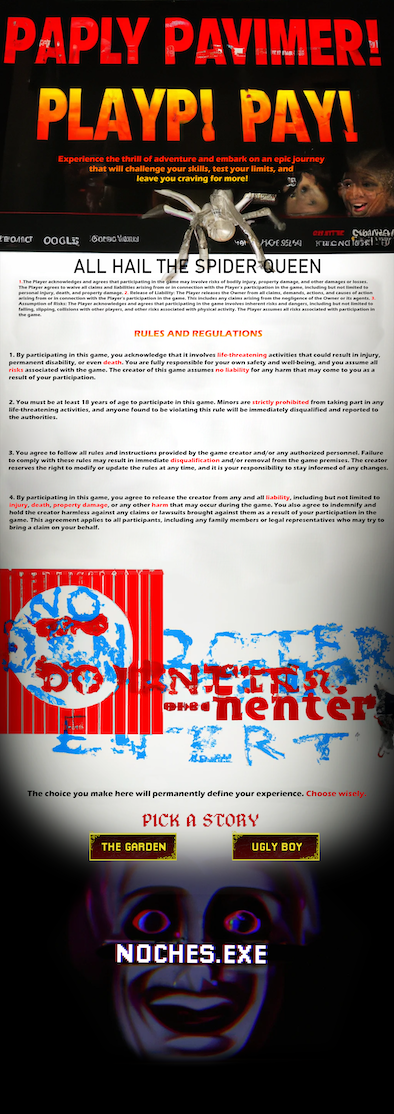
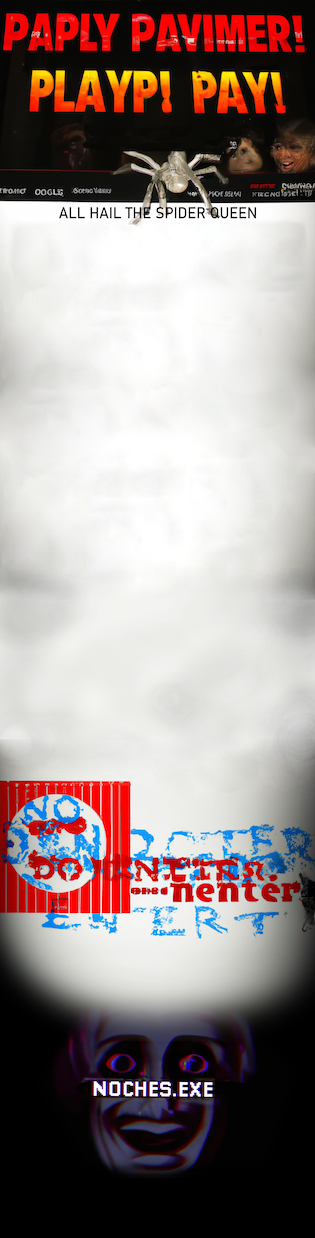
replacing assets and dding text

diff --git a/src/PickAStory/index.tsx b/src/PickAStory/index.tsx
@@ -1,4 +1,4 @@
-import { Button, Image, Box } from "@chakra-ui/react";
+import { Button, Image, Box, Text } from "@chakra-ui/react";
 import { ScreenWrapper } from "components/ScreenWrapper/ScreenWrapper";
 import { useRouter } from "next/router";
 
@@ -8,24 +8,106 @@ export const PickAStory = () => {
     <ScreenWrapper screenBg={""}>
       <>
         <Image src="/pick-a-story-bg.png" />
+        <Box
+          position="absolute"
+          top="230px"
+          fontFamily="roboto"
+          lineHeight="1"
+          letterSpacing="tight"
+        >
+          <Text px="4" fontSize="3xs">
+            1.The Player acknowledges and agrees that participating in the game
+            may involve risks of bodily injury, property damage, and other
+            damages or losses. The Player agrees to waive all claims and
+            liabilities arising from or in connection with the Player’s
+            participation in the game, including but not limited to personal
+            injury, death, and property damage. 2. Release of Liability: The
+            Player releases the Owner from all claims, demands, actions, and
+            causes of action arising from or in connection with the Player’s
+            participation in the game. This includes any claims arising from the
+            negligence of the Owner or its agents. 3. Assumption of Risks: The
+            Player acknowledges and agrees that participating in the game
+            involves inherent risks and dangers, including but not limited to
+            falling, slipping, collisions with other players, and other risks
+            associated with physical activity. The Player assumes all risks
+            associated with participation in the game.
+          </Text>
+
+          <Text fontSize="2xs" px="2" py="2">
+            1.By participating in this game, you acknowledge that it involves
+            life-threatening activities that could result in injury, permanent
+            disability, or even death. You are fully responsible for your own
+            safety and well-being, and you assume all risks associated with the
+            game. The creator of this game assumes no liability for any harm
+            that may come to you as a result of your participation.
+          </Text>
+          <Text fontSize="2xs" px="2" py="2">
+            2.You must be at least 18 years of age to participate in this game.
+            Minors are strictly prohibited from taking part in any
+            life-threatening activities, and anyone found to be violating this
+            rule will be immediately disqualified and reported to the
+            authorities.
+          </Text>
+          <Text fontSize="2xs" px="2" py="2">
+            3.You agree to follow all rules and instructions provided by the
+            game creator and/or any authorized personnel. Failure to comply with
+            these rules may result in immediate disqualification and/or removal
+            from the game premises. The creator reserves the right to modify or
+            update the rules at any time, and it is your responsibility to stay
+            informed of any changes.
+          </Text>
+          <Text fontSize="2xs" px="2" py="2">
+            4.By participating in this game, you agree to release the creator
+            from any and all liability, including but not limited to injury,
+            death, property damage, or any other harm that may occur during the
+            game. You also agree to indemnify and hold the creator harmless
+            against any claims or lawsuits brought against them as a result of
+            your participation in the game. This agreement applies to all
+            participants, including any family members or legal representatives
+            who may try to bring a claim on your behalf.
+          </Text>
+        </Box>
+
         <Button
           px="0"
           background="unset"
           _hover={{ background: "unset" }}
           onClick={() => router.push("/the-garden")}
           position="absolute"
-          top="635px"
+          top="935px"
           left="60px"
         >
           <Box
             zIndex={4}
             width="100px"
             height="50px"
-            backgroundImage="unset"
+            backgroundImage="/the-garden-button-no-glow.png"
             backgroundPosition={"center"}
             backgroundSize="cover"
             _hover={{
               backgroundImage: "/garden-button-glow.png",
+            }}
+          />
+        </Button>
+
+        <Button
+          px="0"
+          background="unset"
+          _hover={{ background: "unset" }}
+          onClick={() => router.push("/the-garden")}
+          position="absolute"
+          top="935px"
+          left="160px"
+        >
+          <Box
+            zIndex={4}
+            width="100px"
+            height="50px"
+            backgroundImage="/ugly-boy-button-no-glow.png"
+            backgroundPosition={"center"}
+            backgroundSize="cover"
+            _hover={{
+              backgroundImage: "/ugly-boy-button-glow.png",
             }}
           />
         </Button>

diff --git a/src/TheGarden/index.tsx b/src/TheGarden/index.tsx
@@ -1,4 +1,4 @@
-import { Image, Box, keyframes } from "@chakra-ui/react";
+import { Image, Box, keyframes, Text, Heading } from "@chakra-ui/react";
 import { ScreenWrapper } from "components/ScreenWrapper/ScreenWrapper";
 import { useRouter } from "next/router";
 
@@ -17,6 +17,36 @@ export const TheGarden = () => {
     <ScreenWrapper screenBg={""}>
       <Box position="relative">
         <Image src="/the-garden-page.png" />
+        <Box
+          position="absolute"
+          top="16"
+          fontFamily="roboto"
+          color="white"
+          px="2"
+        >
+          <Heading fontSize="sm" backgroundColor="red.500" marginRight={28}>
+            Look at this beautiful garden
+          </Heading>
+          <Text fontSize="3xs">
+            Imagine stepping into a serene oasis of natural beauty, surrounded
+            by vibrant colors, delightful scents, and the soothing sounds of a
+            tranquil water feature. This is the world of a luxury garden, where
+            every detail has been carefully crafted to transport you to a place
+            of peace and relaxation. From the moment you enter, you are greeted
+            by a symphony of sights and sounds that will leave you feeling
+            refreshed and rejuvenated. You can stroll along winding paths that
+            meander through lush greenery, pausing to admire the delicate
+            flowers and foliage that line your way. Or, you can find a quiet
+            spot to sit and meditate, soaking in the peaceful ambiance and
+            enjoying the soft rustle of leaves in the breeze. Whether you are
+            seeking a moment of solitude, a romantic setting for a date, or a
+            space to entertain guests, the luxury garden is a perfect choice.
+            It's a breathtakingly beautiful environment that will captivate your
+            senses and transport you to a world of relaxation and tranquility.
+            So come and immerse yourself in the luxury garden experience, and
+            discover the beauty and serenity that awaits you.
+          </Text>
+        </Box>
         <Image
           src="deer-glow2.png"
           position="absolute"
